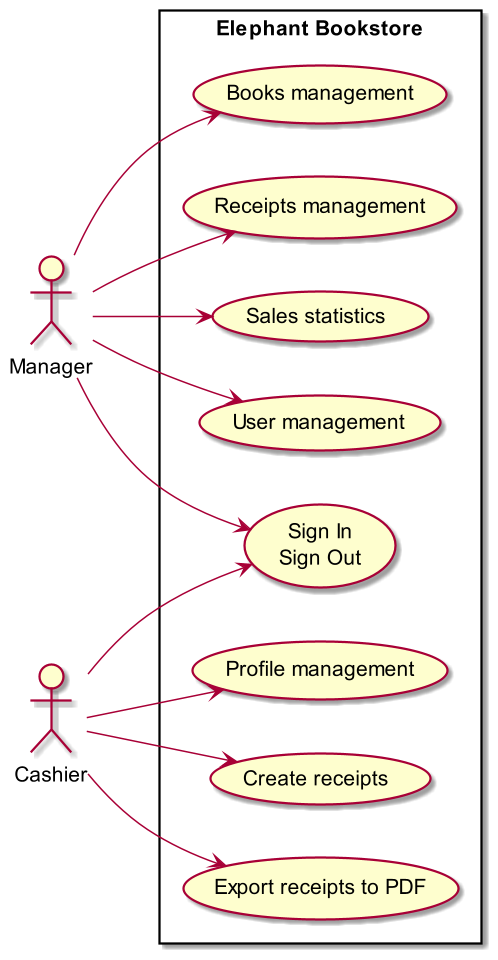
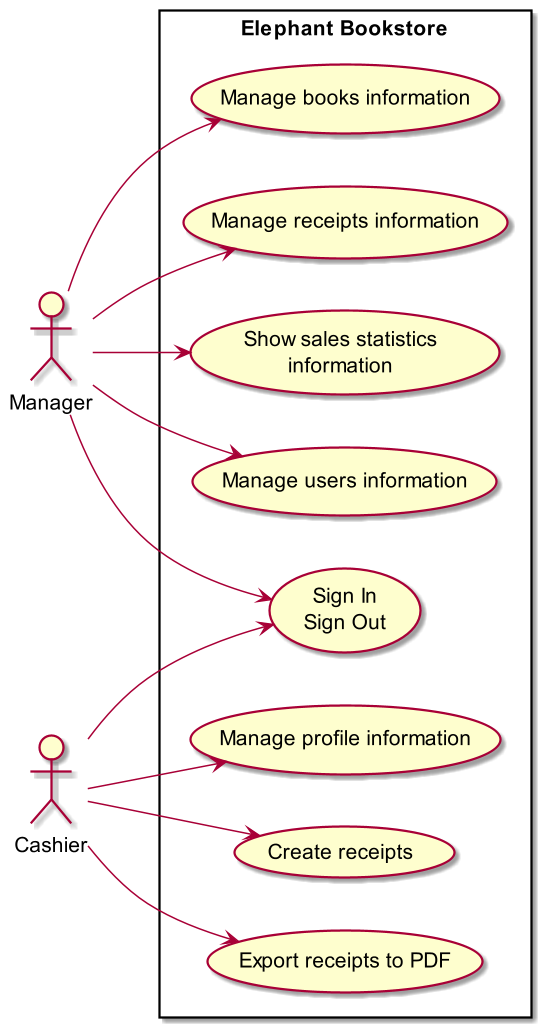
Update meeting 19-Oct-2021 and UML diagrams

diff --git a/Notes/meeting_note.md b/Notes/meeting_note.md
@@ -167,3 +167,9 @@ select book_id, sum(quantity) as sold_copies from tbl_receipt_items group by boo
 select date(created_on) as last_seven_days, sum(total_price) as total_revenue from tbl_receipts group by last_seven_days order by last_seven_days desc limit 7;
 
 ```
+
+## Meeting 12: 19-Oct-2021
+
+- Theme switching button
+- Internationalization
+- Help menu
